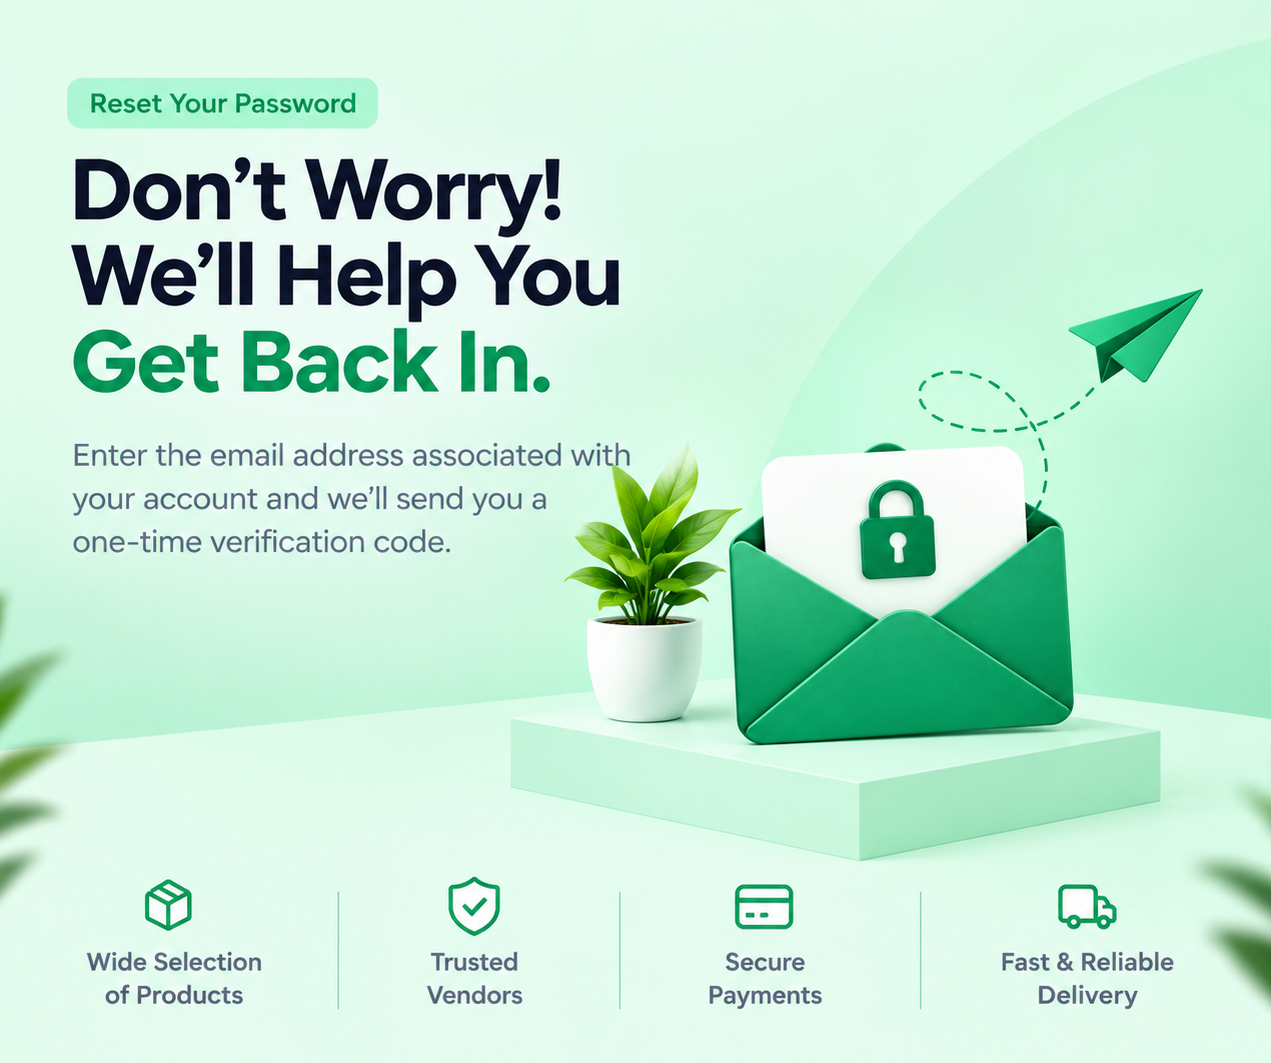
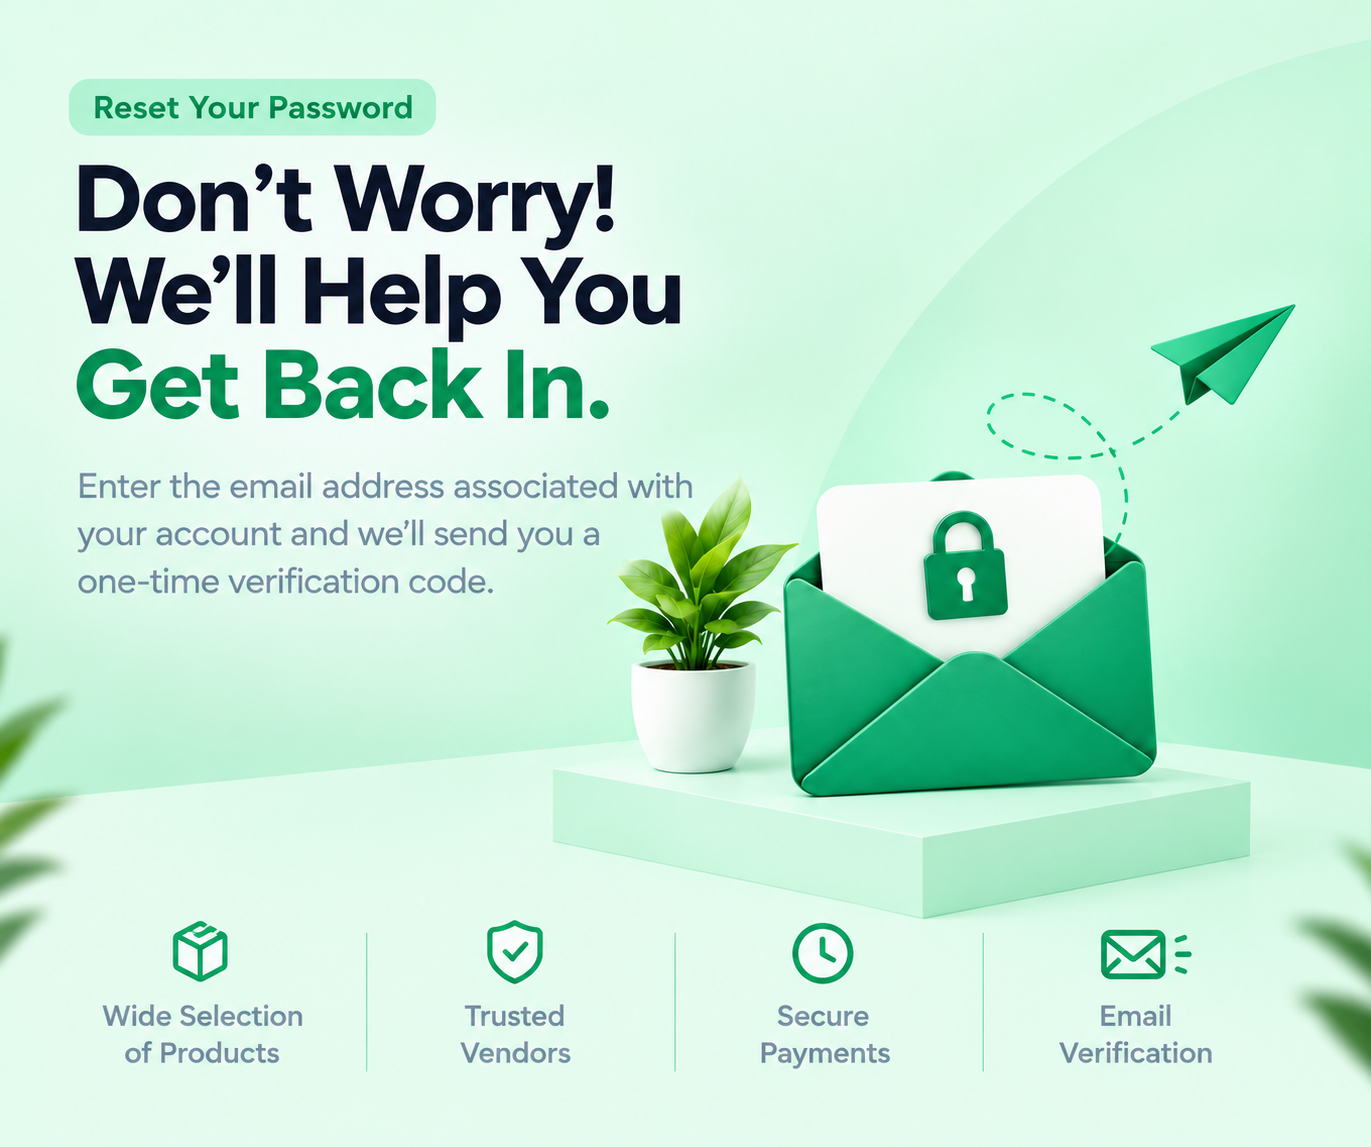
All image Changes

diff --git a/resources/views/components/home/slide.blade.php b/resources/views/components/home/slide.blade.php
@@ -1,77 +1,5 @@
-@php
-$isPriority = $slide['priority'] ?? false;
-@endphp
+<div class="hero-slide relative w-full h-full flex-shrink-0">
+    <img src="{{ asset($slide['image']) }}" alt="{{ asset($slide['image_alt']) }}"
+        class="absolute inset-0 block w-full h-full object-center pointer-events-none" />
 
-<div
-    class="hero-slide relative w-full flex-shrink-0 min-h-[380px] sm:min-h-[420px] lg:min-h-[460px] flex items-center bg-[#FDF5F2]">
-    <!-- Background Image -->
-    <img src="{{ asset($slide['image']) }}" alt="{{ $slide['image_alt'] }}"
-        class="absolute inset-0 w-full h-full object-cover object-right pointer-events-none" />
-
-    <!-- Callout -->
-    <div class="absolute top-6 right-12 lg:right-28 z-20 pointer-events-none hidden md:block">
-        <div class="flex flex-col items-center transform -rotate-6">
-            <span
-                class="font-serif italic font-extrabold text-[#1E293B] text-sm lg:text-base tracking-wide leading-tight text-center drop-shadow-xs">
-                {{ $slide['callout_line_1'] }}<br> {{ $slide['callout_line_2'] }}
-            </span>
-            <svg class="w-10 h-7 text-[#1E293B] mt-1 ml-6 transform rotate-12" fill="none" stroke="currentColor"
-                stroke-width="2" viewBox="0 0 40 30">
-                <path d="M5 5 C 18 2, 28 8, 30 22 M 22 17 L 30 22 L 32 14" stroke-linecap="round"
-                    stroke-linejoin="round" />
-            </svg>
-        </div>
-    </div>
-
-    <!-- Left Content Area -->
-    <div class="relative z-20 w-full max-w-[1360px] mx-auto px-6 sm:px-10 lg:px-12 py-8 flex flex-col justify-center">
-        <div class="max-w-xl space-y-4 sm:space-y-5">
-            <span class="inline-block bg-[#FDE2D8] text-[#C2410C] text-xs font-bold px-3 py-1.5 rounded-md">
-                {{ $slide['tagline'] }}
-            </span>
-
-            @if ($isPriority)
-            <h1 class="text-3xl sm:text-4xl lg:text-[44px] font-extrabold text-[#0B1527] leading-[1.12] tracking-tight">
-                {{ $slide['heading_line_1'] }} <br>
-                <span class="text-[#00875A]">{{ $slide['heading_line_2'] }}</span>
-            </h1>
-            @else
-            <h2 class="text-3xl sm:text-4xl lg:text-[44px] font-extrabold text-[#0B1527] leading-[1.12] tracking-tight">
-                {{ $slide['heading_line_1'] }} <br>
-                <span class="text-[#00875A]">{{ $slide['heading_line_2'] }}</span>
-            </h2>
-            @endif
-
-            <p class="text-gray-600 text-xs sm:text-sm lg:text-[15px] leading-relaxed max-w-md font-medium">
-                {{ $slide['description'] }}
-            </p>
-
-            <div class="flex items-center gap-3 pt-1">
-                <a href="{{ $slide['btn1_link'] }}"
-                    class="bg-[#00875A] hover:bg-[#00744D] text-white font-bold text-xs sm:text-sm px-5 sm:px-6 py-2.5 sm:py-3 rounded-lg shadow-sm flex items-center gap-2 transition duration-200">
-                    <span>{{ $slide['btn2_title'] }}</span>
-                    <svg class="w-4 h-4" fill="none" stroke="currentColor" stroke-width="2.2" viewBox="0 0 24 24">
-                        <path stroke-linecap="round" stroke-linejoin="round" d="M14 5l7 7m0 0l-7 7m7-7H3" />
-                    </svg>
-                </a>
-                <a href="{{ $slide['btn2_link'] }}"
-                    class="bg-white hover:bg-gray-50 text-gray-800 border border-gray-200 font-bold text-xs sm:text-sm px-5 sm:px-6 py-2.5 sm:py-3 rounded-lg shadow-xs transition duration-200">
-                    {{ $slide['btn2_title'] }}
-                </a>
-            </div>
-
-            <!-- Features -->
-            <div class="flex flex-wrap items-center gap-6 sm:gap-7 pt-4">
-                @foreach ($slide['features'] as $feature)
-                <div class="flex items-center gap-2">
-                    <div class="text-[#00875A] shrink-0">
-                        <x-home.feature-icon :icon="$feature['icon']" />
-                    </div>
-                    <span
-                        class="text-[11px] font-semibold text-gray-700 leading-tight">{{ $feature['line_1'] }}<br>{{ $feature['line_2'] }}</span>
-                </div>
-                @endforeach
-            </div>
-        </div>
-    </div>
 </div>

diff --git a/config/data.php b/config/data.php
@@ -1,84 +1,20 @@
 <?php
-$features = [
-    [
-    'icon' => 'box',
-    'line_1' => 'Wide Selection',
-    'line_2' => 'of Products',
-    ],
-    [
-    'icon' => 'shield',
-    'line_1' => 'Trusted',
-    'line_2' => 'Vendors',
-    ],
-    [
-    'icon' => 'payment',
-    'line_1' => 'Secure',
-    'line_2' => 'Payments',
-    ],
-    [
-    'icon' => 'delivery',
-    'line_1' => 'Fast & Reliable',
-    'line_2' => 'Delivery',
-    ],
-];
-
-$slides = [
-    [
-    'image' => 'assets/images/everything.png',
-    'image_alt' => 'Vendora Marketplace Tabletop',
-    'callout_line_1' => 'More Choices',
-    'callout_line_2' => 'Better Deals',
-    'tagline' => 'Multi-Vendor Marketplace',
-    'priority' => true,
-    'heading_line_1' => 'Everything You Need',
-    'heading_line_2' => 'in One Place',
-    'description' => 'Shop from thousands of trusted vendors, discover unique products, and enjoy a seamless
-    shopping experience on Vendora.',
-    'btn1_title' => 'Shop Now',
-    'btn1_link' => '#shop',
-    'btn2_title' => 'Explore Vendors',
-    'btn2_link' => '#vendors',
-    ],
-    [
-    'image' => 'assets/images/tech.png',
-    'image_alt' => 'Tech Gadgets',
-    'callout_line_1' => 'Top Rated',
-    'callout_line_2' => 'Best Warranties',
-    'tagline' => 'Flash Deals &bull; Up to 40% Off',
-    'priority' => false,
-    'heading_line_1' => 'Smart Devices',
-    'heading_line_2' => 'Audio Accessories',
-    'description' => 'Upgrade your setup with official wireless gadgets, studio acoustics, and verified
-    authentic gear.',
-    'btn1_title' => 'Browse Gadgets',
-    'btn1_link' => '#shop',
-    'btn2_title' => 'View Offers',
-    'btn2_link' => '#deals',
-    ],
-    [
-    'image' => 'assets/images/headphone.png',
-    'image_alt' => 'Headphones and accessories available on Vendora',
-    'callout_line_1' => 'Fresh Fits',
-    'callout_line_2' => 'Direct To You',
-    'tagline' => 'Season New Arrivals',
-    'priority' => false,
-    'heading_line_1' => 'Trendy Styles & ',
-    'heading_line_2' => 'Everyday Living',
-    'description' => 'Shop modern collections from boutique apparel vendors with fast nationwide shipping.',
-    'btn1_title' => 'Shop Fashion',
-    'btn1_link' => '#shop',
-    'btn2_title' => 'View Boutiques',
-    'btn2_link' => '#vendors',
-    ],
-];
-
-$slides = array_map(
-    fn ($slide) => array_merge($slide, ['features'=> $features]), $slides
-);
 
 return [
-    'features'=> $features,
-    'slides'=> $slides,
+    'slides'=> [
+        [
+        'image' => 'assets/images/hero-1.png',
+        'image_alt' => 'Vendora Marketplace Tabletop'
+        ],
+        [
+        'image' => 'assets/images/hero-2.png',
+        'image_alt' => 'Tech Gadgets'
+        ],
+        [
+        'image' => 'assets/images/hero-3.png',
+        'image_alt' => 'Fashion Essentials'
+        ],
+    ],
 
     'categories'=> [
         [
@@ -189,7 +125,7 @@ return [
         ],
     ],
 
-    
+
     'promotional-banners' => [
         [
             'label' => 'New Arrivals',

diff --git a/resources/views/sections/home/hero.blade.php b/resources/views/sections/home/hero.blade.php
@@ -1,23 +1,12 @@
 <section id="heroSlider"
-    class="relative rounded-sm overflow-hidden select-none border border-gray-200/80 shadow-xs group">
+    class="relative w-full aspect-[16/9] lg:aspect-[16/5] overflow-hidden select-none border border-gray-200/80 shadow-xs group">
 
     <!-- Track Container -->
-    <div id="sliderTrack" class="flex w-full will-change-transform">
+    <div id="sliderTrack" class="flex w-full h-full will-change-transform">
 
         @foreach (config('data.slides') as $slide)
             <x-home.slide :slide="$slide" />
         @endforeach
 
-    </div>
-
-    <!-- Centered Bottom Pagination Dots with Hover Cursor & Scale -->
-    <div class="absolute bottom-3 inset-x-0 flex items-center justify-center gap-2 z-30">
-        @foreach (config('data.slides') as $index => $slide)
-            <button type="button" aria-label="Slide {{ $index + 1 }}"
-                class="hero-dot cursor-pointer p-1 group/dot focus:outline-none">
-                <span
-                    class="dot-indicator block w-2.5 h-2.5 rounded-full {{ $index + 1 === 1 ? 'bg-[#00875A]' : 'bg-gray-300' }} transition-all duration-300 group-hover/dot:scale-125"></span>
-            </button>
-        @endforeach
     </div>
 </section>

diff --git a/resources/views/pages/auth/reset-password.blade.php b/resources/views/pages/auth/reset-password.blade.php
@@ -7,7 +7,7 @@
         <div
             class="w-full bg-white sm:rounded-[28px] sm:border sm:border-gray-100 sm:shadow-[0_10px_35px_rgba(0,0,0,0.03)] overflow-hidden flex flex-col lg:flex-row sm:p-5 gap-6 lg:gap-10">
             <div class="w-full lg:w-[60%] overflow-hidden sm:rounded-2xl">
-                <img src="{{ asset('assets/images/signup.png') }}" alt="Join Vendora Today - Multi-Vendor Marketplace"
+                <img src="{{ asset('assets/images/reset.png') }}" alt="Join Vendora Today - Multi-Vendor Marketplace"
                     class="block w-full h-full object-cover">
             </div>
 

diff --git a/resources/views/pages/auth/verify-otp.blade.php b/resources/views/pages/auth/verify-otp.blade.php
@@ -9,7 +9,7 @@
 
             <!-- ================= LEFT PROMOTIONAL SHOWCASE ================= -->
             <div class="w-full lg:w-[60%] overflow-hidden sm:rounded-2xl">
-                <img src="{{ asset('assets/images/forgot.png') }}" alt="Vendora marketplace promotional panel"
+                <img src="{{ asset('assets/images/verify.png') }}" alt="Vendora marketplace promotional panel"
                     class="block w-full h-full object-cover">
             </div>
 
